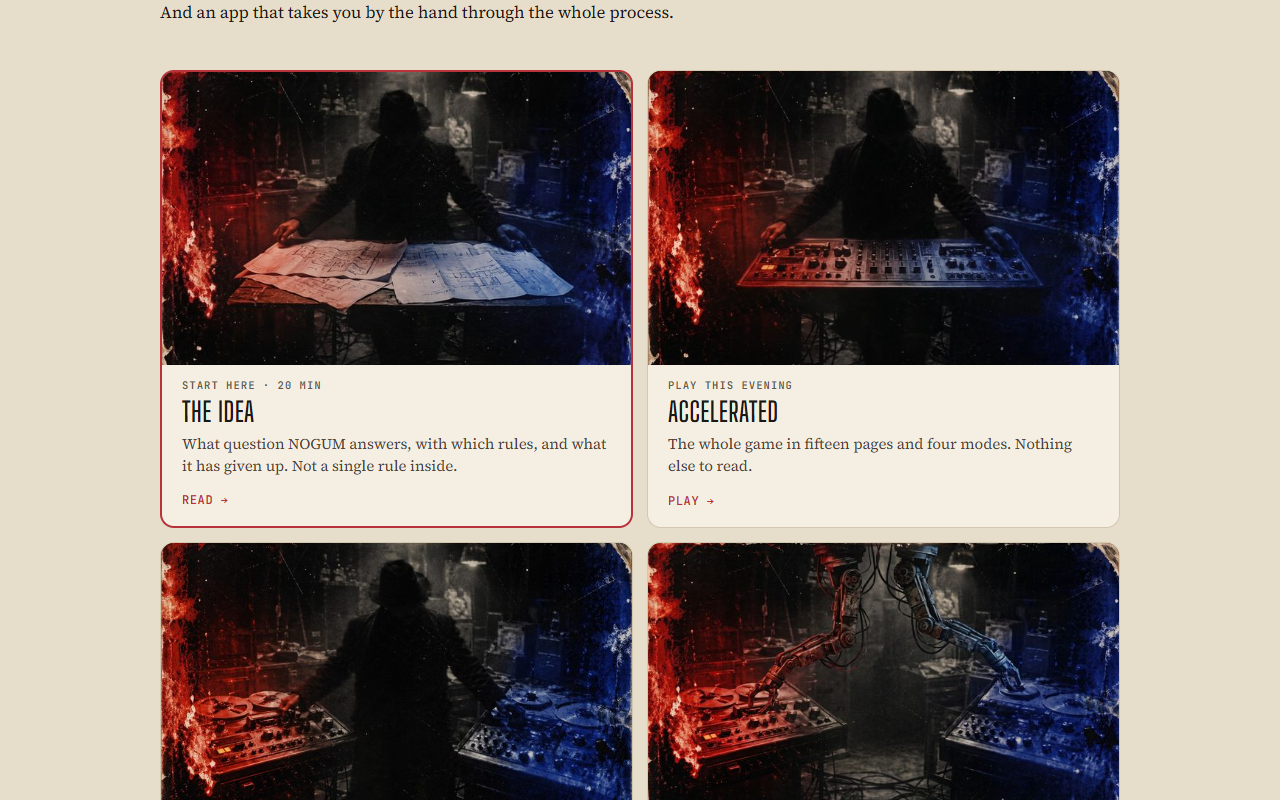
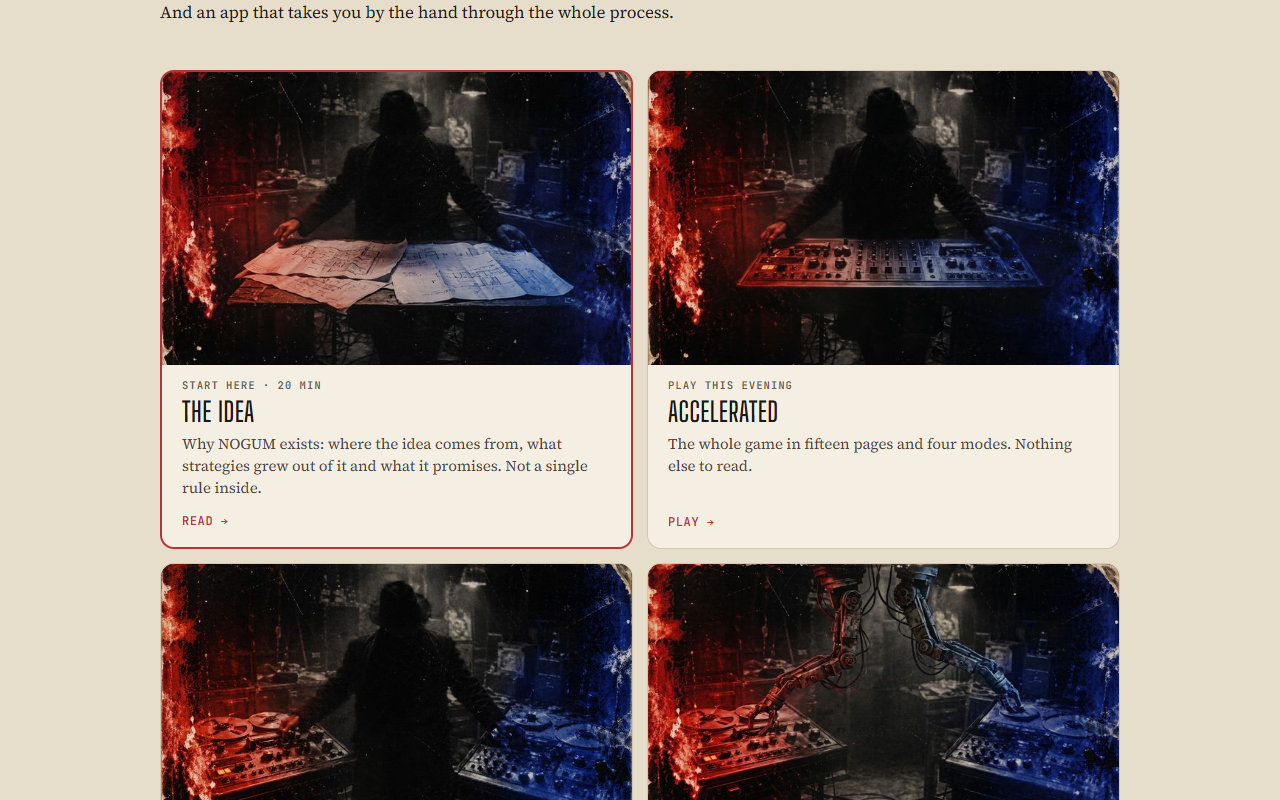
La tarjeta de La Idea ya no promete reglas
Decía «con qué reglas» y «ni una sola regla dentro» a la vez. Ahora usa lo
que La Idea dice de sí misma: responde a por qué.

Changed region(s): [[0.125, 0.5312, 0.875, 1.0]]

diff --git a/docs/index.html b/docs/index.html
@@ -146,8 +146,8 @@ a{color:var(--red)}
     <img class="foto" src="img/idea-640.jpg" alt="" width="640" height="443" loading="lazy">
     <span class="k" lang="es">Empieza aquí · 20 min</span><span class="k" lang="en">Start here · 20 min</span>
     <b lang="es">La Idea</b><b lang="en">The Idea</b>
-    <span lang="es">Qué pregunta responde NOGUM, con qué reglas, y a qué ha renunciado. Ni una sola regla dentro.</span>
-    <span lang="en">What question NOGUM answers, with which rules, and what it has given up. Not a single rule inside.</span>
+    <span lang="es">Por qué existe NOGUM: de dónde sale la idea, qué estrategias salieron de ella y qué promete. Ni una sola regla dentro.</span>
+    <span lang="en">Why NOGUM exists: where the idea comes from, what strategies grew out of it and what it promises. Not a single rule inside.</span>
     <span class="ir" lang="es">Leer →</span><span class="ir" lang="en">Read →</span>
   </a>
   <a class="pieza" href="acelerado.html">
